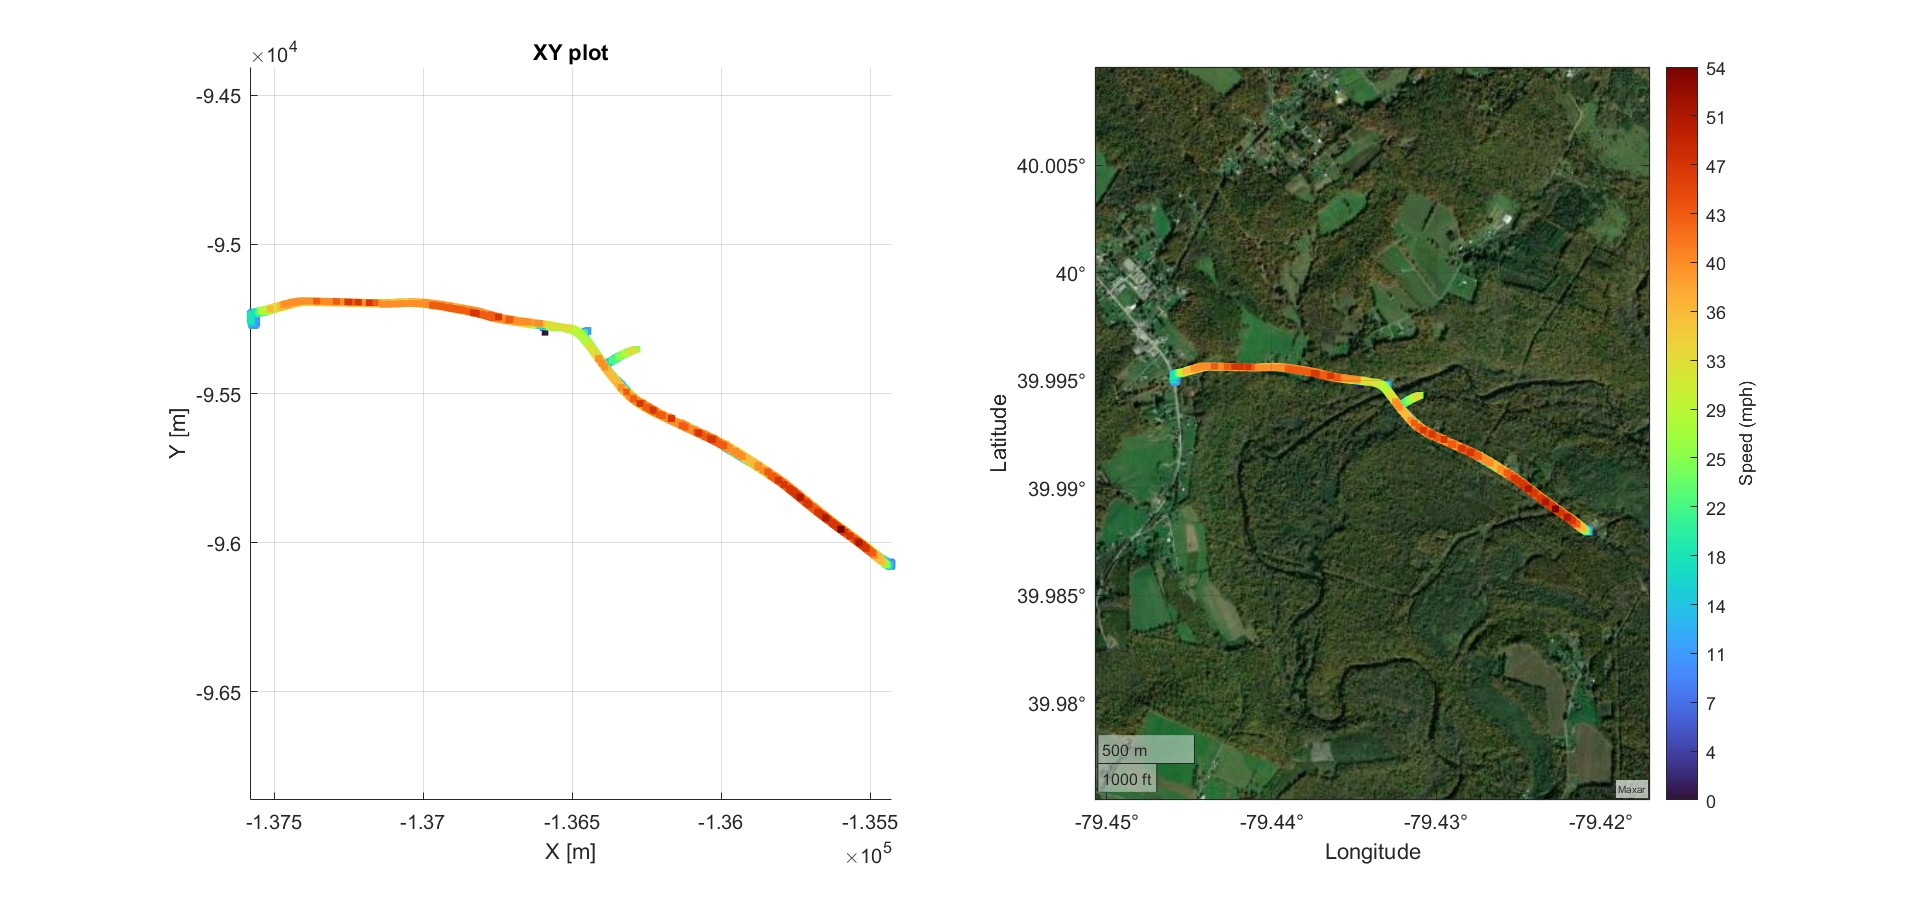
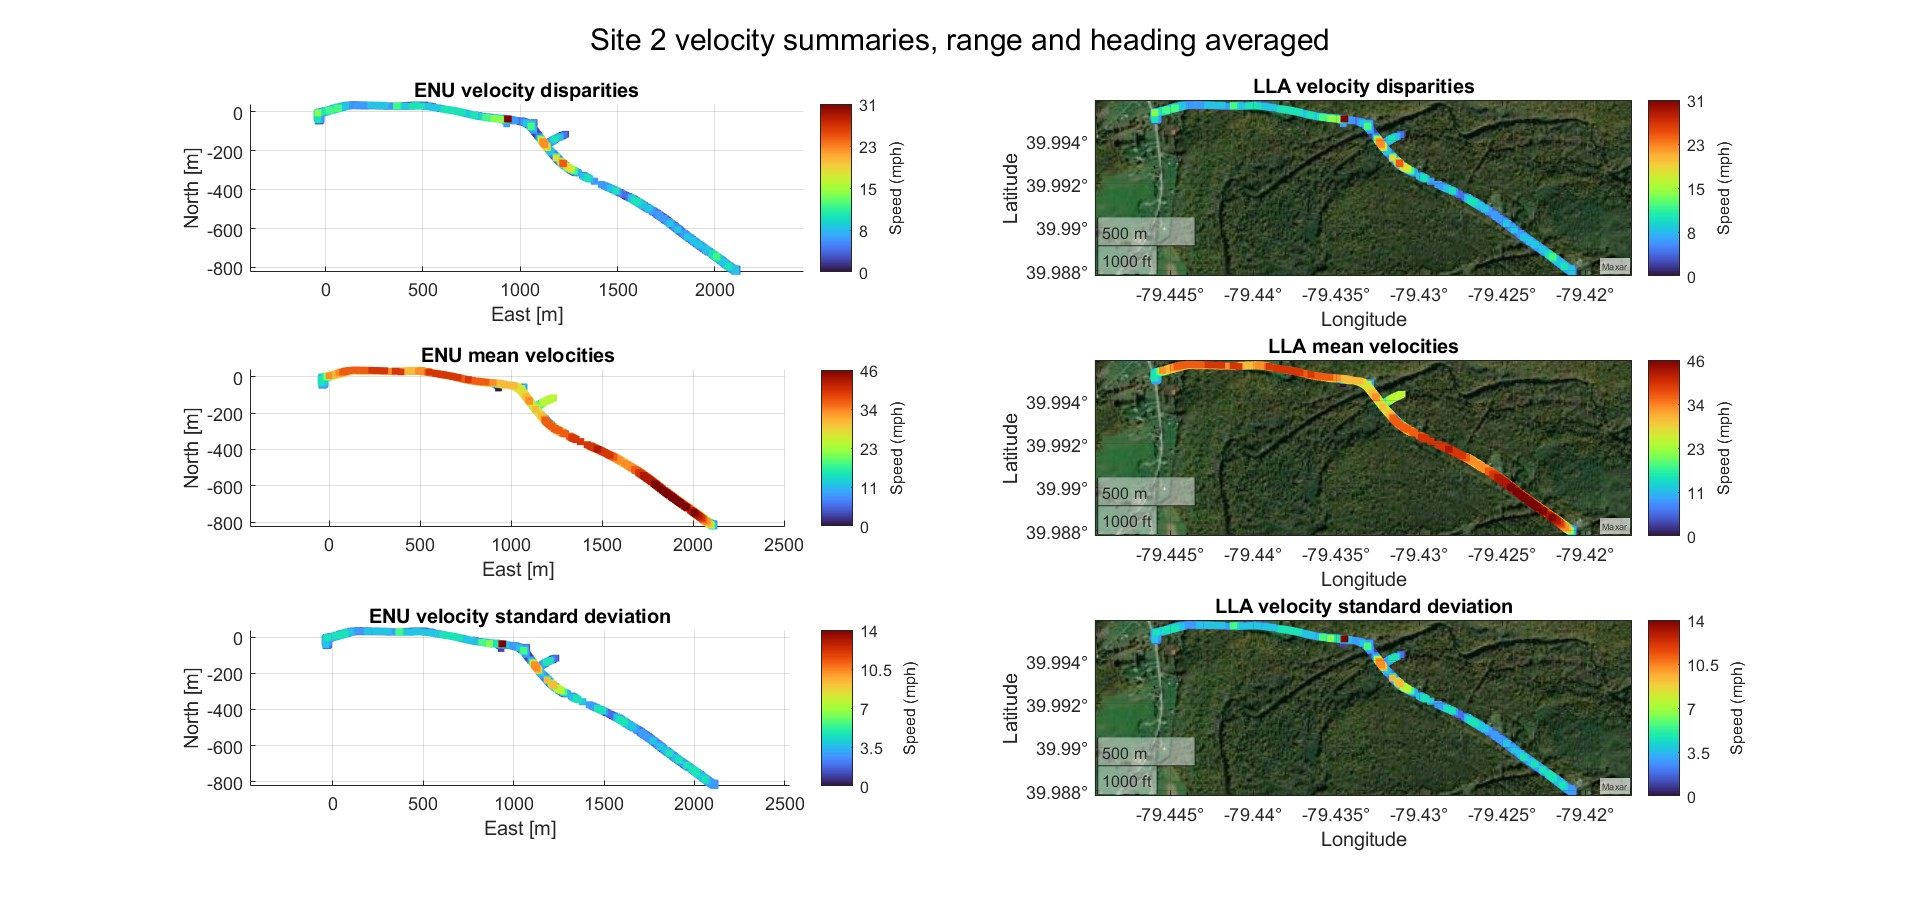
FEAT: updated README with better Site 2 images

diff --git a/script_plotCV2X_analyzeFieldSite2.m b/script_plotCV2X_analyzeFieldSite2.m
@@ -152,7 +152,7 @@ fig_num = 1;
 figure(fig_num);
 clf;
 
-RSUid = 'Site2';
+SiteStringIdentifier = 'Site2';
 
 clear plotFormat
 plotFormat.LineStyle = '-';
@@ -161,7 +161,7 @@ plotFormat.Marker = 'none';  % '.';
 plotFormat.MarkerSize = 50;
 plotFormat.Color = [1 0 1];
 
-[LLAsOfRSUs, numericRSUids] =fcn_plotCV2X_loadRSULLAs(RSUid, (plotFormat), (fig_num));
+[LLAsOfRSUs, numericRSUids] =fcn_plotCV2X_loadRSULLAs(SiteStringIdentifier, (plotFormat), (fig_num));
 title(sprintf('Figure %.0d: RSU locations for Site 2',fig_num), 'Interpreter','none');
 
 %% Load all the site data
@@ -472,7 +472,7 @@ for ith_RSU = 1:N_RSUs
     title('Velocity')
     xlabel('Time [s]')
     ylabel('Velocity [m/s]')
-    title(sprintf('RSU %.0d: velocity versus time',fig_num), 'Interpreter','none','FontSize',12);
+    fcn_INTERNAL_addTitle(flag_combine_all,'velocity versus time', SiteStringIdentifier, thisRSUnumber);
     fcn_INTERNAL_setSpeedColorBar(velocityAxes,Ncolors)
 
 
@@ -493,8 +493,7 @@ for ith_RSU = 1:N_RSUs
     title('Compass Heading')
     xlabel('Time [s]')
     ylabel('Heading [deg]')
-    title(sprintf('RSU %.0d: heading versus time',fig_num), 'Interpreter','none','FontSize',12);
-
+    fcn_INTERNAL_addTitle(flag_combine_all,'heading versus time', SiteStringIdentifier, thisRSUnumber);
     fcn_INTERNAL_setSpeedColorBar(velocityAxes,Ncolors)
 
     % Set up the ENU velocity figure
@@ -513,7 +512,7 @@ for ith_RSU = 1:N_RSUs
     title('ENU velocities')
     xlabel('East [m]')
     ylabel('North [m]')
-    title(sprintf('RSU %.0d: ENU velocities',fig_num), 'Interpreter','none','FontSize',12);
+    fcn_INTERNAL_addTitle(flag_combine_all,'ENU velocities', SiteStringIdentifier, thisRSUnumber);
     fcn_INTERNAL_setSpeedColorBar(velocityAxes,Ncolors)
 
     % Set up the LLA velocity figure
@@ -529,7 +528,7 @@ for ith_RSU = 1:N_RSUs
 
     fcn_plotRoad_plotLLI(plotLLVData, (plotFormat), (reducedColorMap), (fig_num));
     colormap(gca,colorMapMatrixOrString);
-    title(sprintf('RSU %.0d: LLA velocities',fig_num), 'Interpreter','none','FontSize',12);
+    fcn_INTERNAL_addTitle(flag_combine_all,'LLA velocities', SiteStringIdentifier, thisRSUnumber);
     fcn_INTERNAL_setSpeedColorBar(velocityAxes,Ncolors)
 
     % Set up the ENU heading figure
@@ -547,7 +546,7 @@ for ith_RSU = 1:N_RSUs
     colormap(gca,fullWrapAroundColorMap);
     xlabel('East [m]')
     ylabel('North [m]')
-    title(sprintf('RSU %.0d: ENU heading',fig_num), 'Interpreter','none','FontSize',12);
+    fcn_INTERNAL_addTitle(flag_combine_all,'ENU heading', SiteStringIdentifier, thisRSUnumber);
     fcn_INTERNAL_setHeadingColorBar(Ncolors)
 
 
@@ -564,7 +563,7 @@ for ith_RSU = 1:N_RSUs
 
     fcn_plotRoad_plotLLI(plotLLHData, (plotFormat), (reducedWrapAroundColorMap), (fig_num));
     colormap(gca,fullWrapAroundColorMap);
-    title(sprintf('RSU %.0d: LLA heading',fig_num), 'Interpreter','none','FontSize',12);
+    fcn_INTERNAL_addTitle(flag_combine_all,'LLA heading', SiteStringIdentifier, thisRSUnumber);
     fcn_INTERNAL_setHeadingColorBar(Ncolors)
 
     % Set up the LLA height figure
@@ -580,7 +579,7 @@ for ith_RSU = 1:N_RSUs
 
     fcn_plotRoad_plotLLI(plotLLheightData, (plotFormat), (reducedColorMap), (fig_num));
     colormap(gca,colorMapMatrixOrString);
-    title(sprintf('RSU %.0d: LLA heights',fig_num), 'Interpreter','none','FontSize',12);
+    fcn_INTERNAL_addTitle(flag_combine_all,'LLA height', SiteStringIdentifier, thisRSUnumber);
     fcn_INTERNAL_setHeightColorBar(heightAxes,Ncolors)
 
 
@@ -596,7 +595,7 @@ for ith_RSU = 1:N_RSUs
 
     fcn_plotRoad_plotLLI(plotLLVeldisparityData, (plotFormat), (reducedColorMap), (fig_num));
     colormap(gca,colorMapMatrixOrString);
-    title(sprintf('RSU %.0d: LLA Velocity Disparity',fig_num), 'Interpreter','none','FontSize',12);
+    fcn_INTERNAL_addTitle(flag_combine_all,'LLA velocity disparity', SiteStringIdentifier, thisRSUnumber);
     fcn_INTERNAL_setSpeedColorBar(velocityDisparityAxes,Ncolors)
 
 
@@ -612,9 +611,25 @@ for ith_RSU = 1:N_RSUs
 
     fcn_plotRoad_plotLLI(plotLLVeldisparitysameheadingData, (plotFormat), (reducedColorMap), (fig_num));
     colormap(gca,colorMapMatrixOrString);
-    title(sprintf('RSU %.0d: LLA Velocity Disparity, Same Heading',fig_num), 'Interpreter','none','FontSize',12);
+    fcn_INTERNAL_addTitle(flag_combine_all,'LLA velocity disparity, same heading', SiteStringIdentifier, thisRSUnumber);
     fcn_INTERNAL_setSpeedColorBar(velocityDisparitySameHeadingAxes,Ncolors)
 
+end
+
+%%% Recenter the plots
+
+if 1==flag_combine_all
+    figs_to_update = 10000*(1:9);
+else
+    figs_to_update = 1000*(1:9);
+end
+for ith_figure = 1:length(figs_to_update)
+    current_fig = figs_to_update(ith_figure);
+    figure(current_fig);
+    try
+        set(gca,'MapCenterMode','auto','ZoomLevelMode','auto');
+    catch
+    end
 end
 
 %% Check velocity variance?
@@ -696,6 +711,17 @@ if 1==0
     end
 
 end
+
+%% Calcualte velocity disparity across entire Site
+figure(2345); clf;
+searchRadiusAndAngles = 6;
+fcn_plotCV2X_calcSpeedDisparity(alltLLAs, alltENUs, searchRadiusAndAngles, (2345));
+sgtitle('Site 2 velocity summaries, range averaged')
+
+figure(3456); clf;
+searchRadiusAndAngles = [1.4 15*pi/180];
+fcn_plotCV2X_calcSpeedDisparity(alltLLAs, alltENUs, searchRadiusAndAngles, (3456));
+sgtitle('Site 2 velocity summaries, range and heading averaged')
 
 %% Functions follow
 %%%%%%%%%%%%%%%%%%%%%%%%%%%%%%%%%%%%%%%%%%%%%%%%%%
@@ -1158,7 +1184,7 @@ end
 function fcn_INTERNAL_setHeightColorBar(height,Ncolors)
 h_colorbar = colorbar;
 h_colorbar.Ticks = linspace(0, 1, Ncolors) ; %Create ticks from zero to 1
-colorbarValues   = round(linspace(min(height), max(height), Ncolors),-2);
+colorbarValues   = round(linspace(min(height), max(height), Ncolors),-1);
 h_colorbar.TickLabels = num2cell(colorbarValues) ;    %Replace the labels of these 8 ticks with the numbers 1 to 8
 h_colorbar.Label.String = 'Height (meters)';
 end
@@ -1169,3 +1195,12 @@ maxValue  = max(rangeData);
 minValue = min(rangeData);
 outputData(:,3) = (inputData(:,3)-minValue)/(maxValue - minValue);
 end
+
+function fcn_INTERNAL_addTitle(flag_combine_all,text_to_list, SiteStringIdentifier, thisRSUnumber)
+if 1==flag_combine_all
+    title(sprintf('Site: %s, %s',SiteStringIdentifier, text_to_list), 'Interpreter','none','FontSize',12);
+else
+    title(sprintf('RSU %.0d, %s',thisRSUnumber, text_to_list), 'Interpreter','none','FontSize',12);
+end
+end
+

diff --git a/Functions/fcn_plotCV2X_calcSpeedDisparity.m b/Functions/fcn_plotCV2X_calcSpeedDisparity.m
@@ -240,6 +240,7 @@ if flag_do_plots == 1
     plotFormat.MarkerSize = 10;
     colorMapMatrixOrString = colormap('turbo');
     Ncolors = 16;
+    Nticks = 5;
     reducedColorMap = fcn_plotRoad_reduceColorMap(colorMapMatrixOrString, Ncolors, -1);
 
     %%%%%%%%%%%%%
@@ -253,9 +254,9 @@ if flag_do_plots == 1
 
 
     h_colorbar = colorbar;
-    h_colorbar.Ticks = linspace(0, 1, Ncolors) ; %Create ticks from zero to 1
+    h_colorbar.Ticks = linspace(0, 1, Nticks) ; %Create ticks from zero to 1
     % There are 2.23694 mph in 1 m/s
-    colorbarValues   = round(2.23694 * linspace(min(speedDisparity), max(speedDisparity), Ncolors));
+    colorbarValues   = round(2.23694 * linspace(min(speedDisparity), max(speedDisparity), Nticks));
     h_colorbar.TickLabels = num2cell(colorbarValues) ;    %Replace the labels of these 8 ticks with the numbers 1 to 8
     h_colorbar.Label.String = 'Speed (mph)';
 
@@ -270,11 +271,13 @@ if flag_do_plots == 1
         title('LLA velocity disparities')
 
         h_colorbar = colorbar;
-        h_colorbar.Ticks = linspace(0, 1, Ncolors) ; %Create ticks from zero to 1
+        h_colorbar.Ticks = linspace(0, 1, Nticks) ; %Create ticks from zero to 1
         % There are 2.23694 mph in 1 m/s
-        colorbarValues   = round(2.23694 * linspace(min(speedDisparity), max(speedDisparity), Ncolors));
+        colorbarValues   = round(2.23694 * linspace(min(speedDisparity), max(speedDisparity), Nticks));
         h_colorbar.TickLabels = num2cell(colorbarValues) ;    %Replace the labels of these 8 ticks with the numbers 1 to 8
         h_colorbar.Label.String = 'Speed (mph)';
+
+        set(gca,'MapCenterMode','auto','ZoomLevelMode','auto');
     end
 
 
@@ -289,9 +292,9 @@ if flag_do_plots == 1
 
 
     h_colorbar = colorbar;
-    h_colorbar.Ticks = linspace(0, 1, Ncolors) ; %Create ticks from zero to 1
+    h_colorbar.Ticks = linspace(0, 1, Nticks) ; %Create ticks from zero to 1
     % There are 2.23694 mph in 1 m/s
-    colorbarValues   = round(2.23694 * linspace(min(velocityMeans), max(velocityMeans), Ncolors));
+    colorbarValues   = round(2.23694 * linspace(min(velocityMeans), max(velocityMeans), Nticks));
     h_colorbar.TickLabels = num2cell(colorbarValues) ;    %Replace the labels of these 8 ticks with the numbers 1 to 8
     h_colorbar.Label.String = 'Speed (mph)';
 
@@ -306,11 +309,13 @@ if flag_do_plots == 1
         title('LLA mean velocities')
 
         h_colorbar = colorbar;
-        h_colorbar.Ticks = linspace(0, 1, Ncolors) ; %Create ticks from zero to 1
+        h_colorbar.Ticks = linspace(0, 1, Nticks) ; %Create ticks from zero to 1
         % There are 2.23694 mph in 1 m/s
-        colorbarValues   = round(2.23694 * linspace(min(velocityMeans), max(velocityMeans), Ncolors));
+        colorbarValues   = round(2.23694 * linspace(min(velocityMeans), max(velocityMeans), Nticks));
         h_colorbar.TickLabels = num2cell(colorbarValues) ;    %Replace the labels of these 8 ticks with the numbers 1 to 8
         h_colorbar.Label.String = 'Speed (mph)';
+
+        set(gca,'MapCenterMode','auto','ZoomLevelMode','auto');
     end
 
 
@@ -325,9 +330,9 @@ if flag_do_plots == 1
 
 
     h_colorbar = colorbar;
-    h_colorbar.Ticks = linspace(0, 1, Ncolors) ; %Create ticks from zero to 1
+    h_colorbar.Ticks = linspace(0, 1, Nticks) ; %Create ticks from zero to 1
     % There are 2.23694 mph in 1 m/s
-    colorbarValues   = round(2.23694 * linspace(min(velocityStds(~isinf(velocityStds),:)), max(velocityStds(~isinf(velocityStds),:)), Ncolors),2);
+    colorbarValues   = round(2.23694 * linspace(min(velocityStds(~isinf(velocityStds),:)), max(velocityStds(~isinf(velocityStds),:)), Nticks),1);
     h_colorbar.TickLabels = num2cell(colorbarValues) ;    %Replace the labels of these 8 ticks with the numbers 1 to 8
     h_colorbar.Label.String = 'Speed (mph)';
 
@@ -342,11 +347,13 @@ if flag_do_plots == 1
         title('LLA velocity standard deviation')
     
         h_colorbar = colorbar;
-        h_colorbar.Ticks = linspace(0, 1, Ncolors) ; %Create ticks from zero to 1
+        h_colorbar.Ticks = linspace(0, 1, Nticks) ; %Create ticks from zero to 1
         % There are 2.23694 mph in 1 m/s
-        colorbarValues   = round(2.23694 * linspace(min(velocityStds(~isinf(velocityStds),:)), max(velocityStds(~isinf(velocityStds),:)), Ncolors),2);
+        colorbarValues   = round(2.23694 * linspace(min(velocityStds(~isinf(velocityStds),:)), max(velocityStds(~isinf(velocityStds),:)), Nticks),1);
         h_colorbar.TickLabels = num2cell(colorbarValues) ;    %Replace the labels of these 8 ticks with the numbers 1 to 8
         h_colorbar.Label.String = 'Speed (mph)';
+
+        set(gca,'MapCenterMode','auto','ZoomLevelMode','auto');
     end
 
 end

diff --git a/README.md b/README.md
@@ -65,7 +65,8 @@ Search for this, and you will find!
     <li><a href="#usage">Usage Examples</a></li>
      <ul>
      <li><a href="#general-usage">General Usage</li>
-     <li><a href="#examples">Advanced Examples</li>
+     <li><a href="#advanced-examples">Advanced Examples</li>
+          <li><a href="#site-2-analysis">Site 2 Analysis - an analysis of the ADS "Site 2" near Falling Water</li>
      </ul>
     <li><a href="#license">License</a></li>
     <li><a href="#contact">Contact</a></li>
@@ -196,7 +197,7 @@ classifies the time vector of the data for errors
 
 given the tENU data from a CV2X radio, this function assesses whether the
 data contain common errors. The time differences between sequential data
-are analyzed. 
+are analyzed.
 
 Common errors include the following:
 
@@ -261,11 +262,9 @@ calculates the difference in velocity between each point and nearby points
 
 ### Supporting functions
 
-
 #### **fcn_plotCV2X_findNearPoints**
 
 for each point, lists nearby indicies
-
 
  **FORMAT:**
 
@@ -303,6 +302,51 @@ for any function to view function details.
 
 <p align="right">(<a href="#fielddatacollection_visualizingfielddata_plotcv2x">Back to top</a>)</p>
 
+### General Usage
+
+Primary and general examples can be found in script_demo_plotCV2x
+
+### Advanced Examples
+
+#### **Site 2 Analysis**
+
+An analysis of the ADS site 2 can be found at:
+
+script_plotCV2X_analyzeFieldSite2.m
+
+<pre align="center">
+  <img src=".\Images\fcn_plotCV2X_site2RSUs.gif" alt="site 2 RSU coverage picture" width="500" height="400">
+  <figcaption>Coverage results for Site 2</figcaption>
+</pre>
+
+<pre align="center">
+  <img src=".\Images\script_plotCV2X_analyzeFieldSite2_LLAvelocities.jpg" alt="site 2 LLA velocities" width="500" height="400">
+  <figcaption>Site 2 LLA velocities</figcaption>
+</pre>
+
+<pre align="center">
+  <img src=".\Images\script_plotCV2X_analyzeFieldSite2_LLAheading.jpg" alt="site 2 LLA heading" width="500" height="400">
+  <figcaption>Site 2 LLA heading</figcaption>
+</pre>
+
+<pre align="center">
+  <img src=".\Images\script_plotCV2X_analyzeFieldSite2_LLAheight.jpgf" alt="site 2 LLA height" width="500" height="400">
+  <figcaption>Site 2 LLA height</figcaption>
+</pre>
+
+<pre align="center">
+  <img src=".\Images\script_plotCV2X_analyzeFieldSite2_VelocityDisparity.jpg" alt="Site 2 velocity disparity" width="500" height="400">
+  <figcaption>Site 2 velocity disparity"</figcaption>
+</pre>
+
+<pre align="center">
+  <img src=".\Images\script_plotCV2X_analyzeFieldSite2_VelocityDisparitySameHeading.jpg" alt="Site 2 velocity disparity, same heading" width="500" height="400">
+  <figcaption>Site 2 velocity disparity, same heading"</figcaption>
+</pre>
+
+<p align="right">(<a href="#fielddatacollection_visualizingfielddata_plotcv2x">Back to top</a>)</p>
+
+***
 <!-- LICENSE -->
 ## License
 
